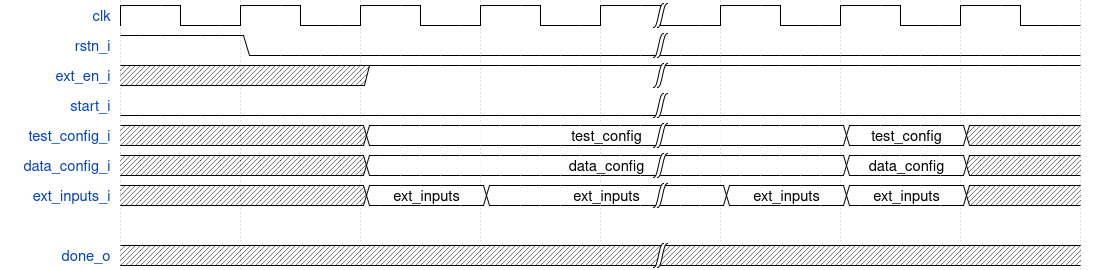
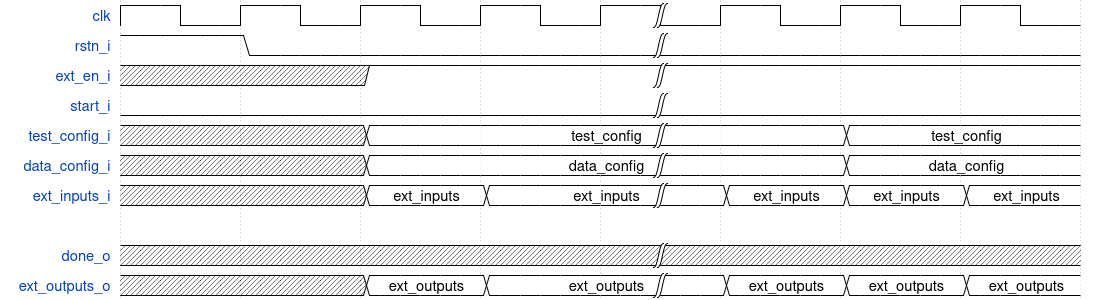
Updated images, link, and deleted some comments

diff --git a/README.md b/README.md
@@ -50,7 +50,7 @@ Here are the specifications of the Matrix Multiplication Unit you are implementi
 | Output data width                   | 8 bits                           | ## Need to discuss this one
 | Handling data overflow              | Saturation                       | ## Need to discuss this one
 | Modes supported                     | Memory, External, & BiST         |
-| IO ports                            | See [cordic_top.sv](src/verilog/cordic_top.sv)| ## update link once files are updated
+| IO ports                            | See [matrix_mult.sv](src/verilog/matrix_mult/matrix_mult.sv)|
 | Reset                               | Active-Low Reset (Reset when 0)  |
 | Process node                        | TSMC 65GP                        |
 | Timing model                        | NLDM                             |
@@ -66,7 +66,7 @@ Your design should support the following modes:
    Shown below is an example of the input and expected output pattern. Assume that the input, weights, and partial-sum memories have already been loaded. The input block configuration and data configuration are fed to your Systolic Array module when the start bit is set. After processing, the done signal indicates completion, and the results are written to the output memory.
 
 <p align="center">
-<img src="./img/signals_normal.png" alt="" width="700"/>
+<img src="./img/signals_memory.png" alt="" width="700"/>
 </p>
 
 2. External mode: The memories are not available, and all signals come from external sources. In this mode, the systolic array functions purely as a processing unit, while an external entity manages all inputs, control signals, and outputs.
@@ -79,7 +79,9 @@ Your design should support the following modes:
 
 3. BiST mode: This mode revolves around using the LFSR and Singature Analyzer to do at-speed testing. It is very similar to the External mode. Memories are not available and inputs, control, and outputs are managed by an external entity. The difference comes in that input activations are now generated by the LFSR, streamed into the systolic array, and then compressed on the Signature Analyzer. Once the Signature is ready (which is determined by the LFSR's stop code) it will be used to determine if incorrect values were produced. This mode helps us isolate the design from the memory interface, providing a setup to test the design at maximum speed.
 
-Explore the use of _genvar_ to build a customizable number of stages.
+<p align="center">
+<img src="./img/signals_bist.png" alt="" width="700"/>
+</p>
 
 **Your design should be parameterizable. You may be asked to change the number of rows, columns, data width, and the position of the fixed point before submitting the final version.**
 
